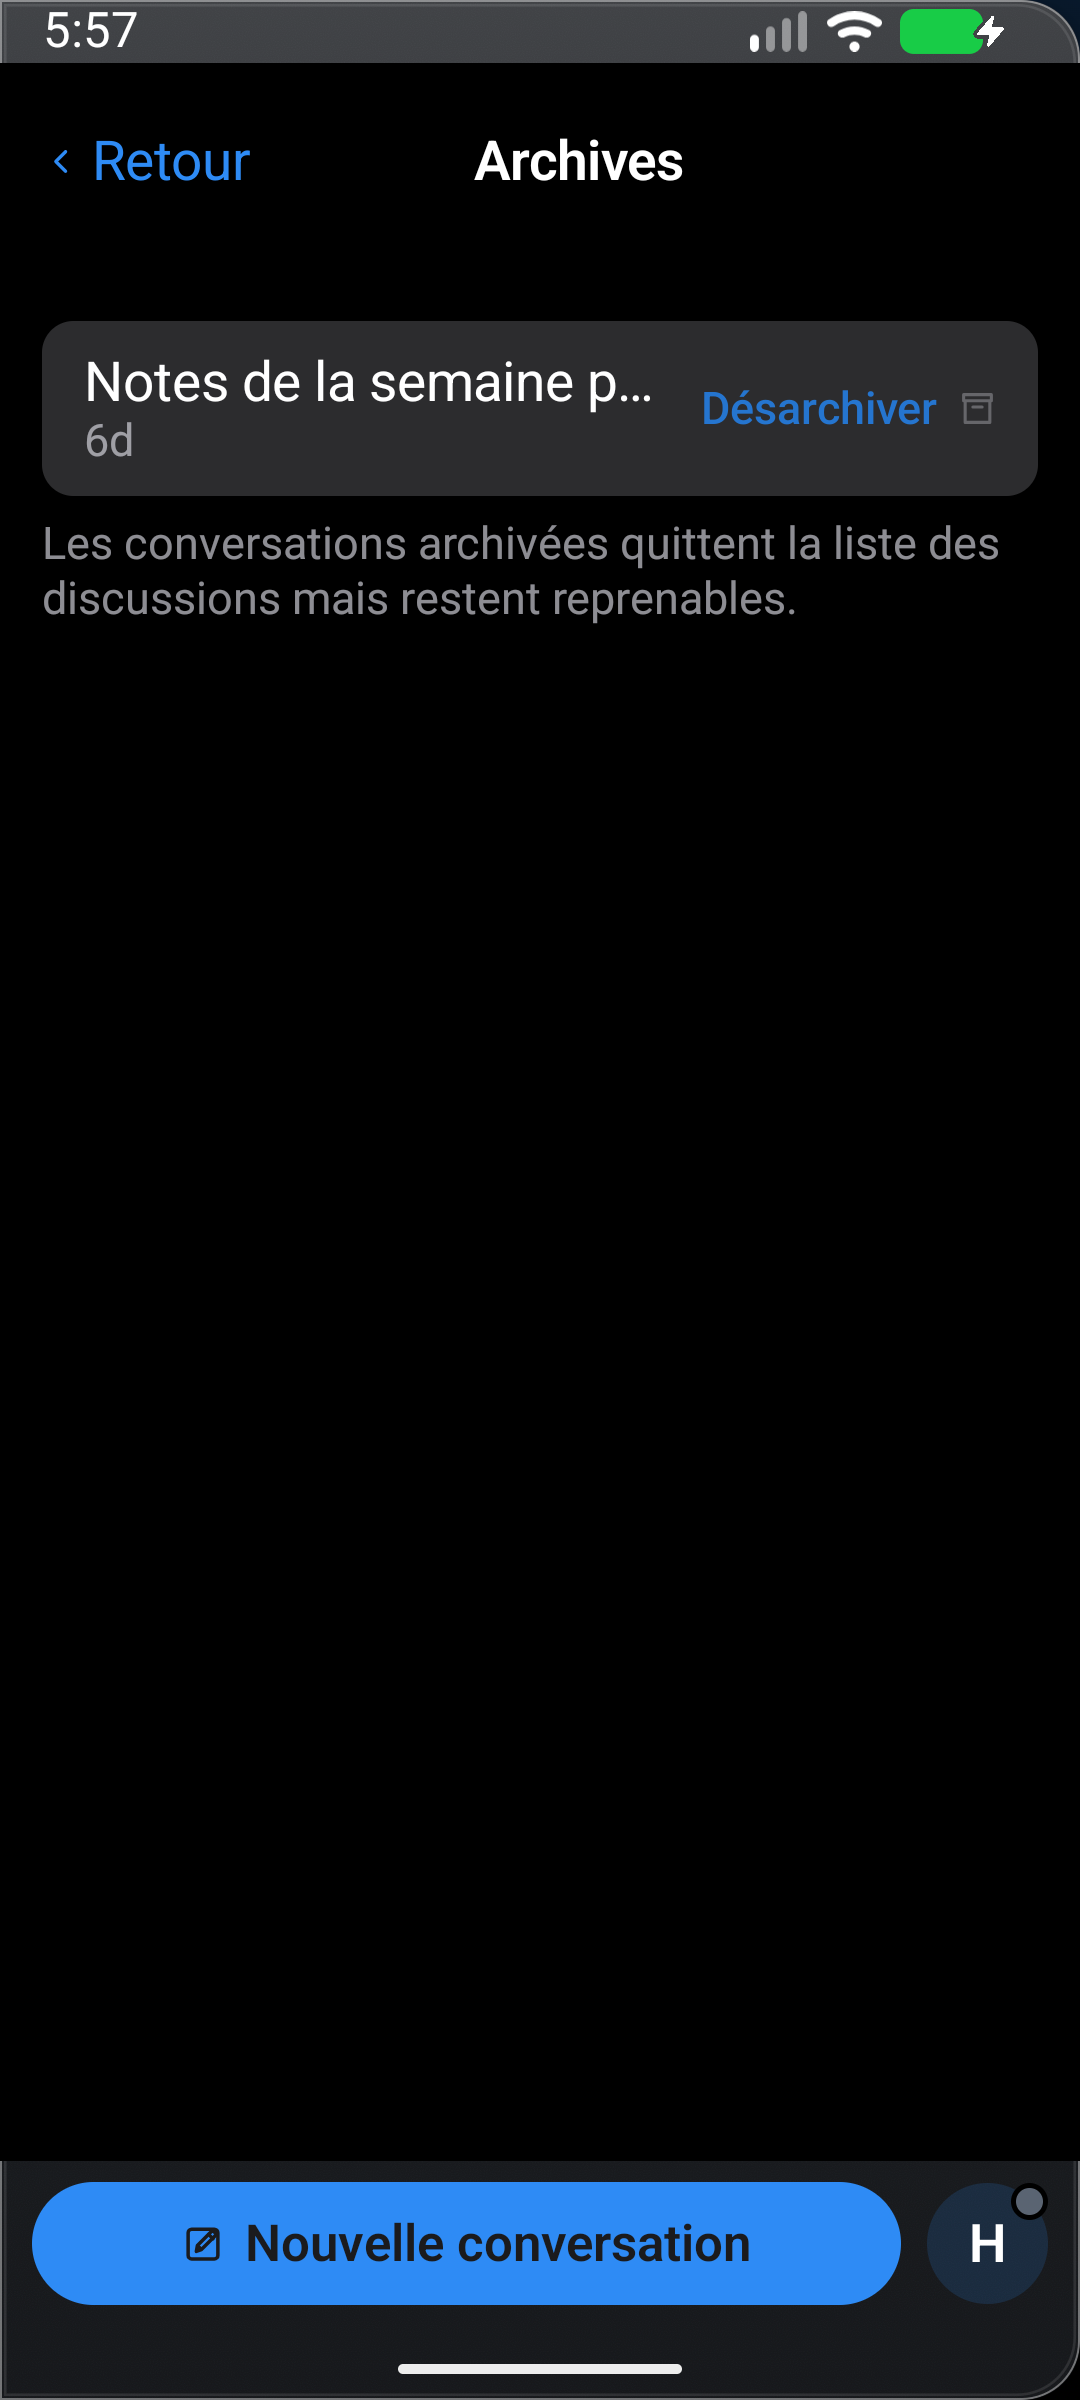
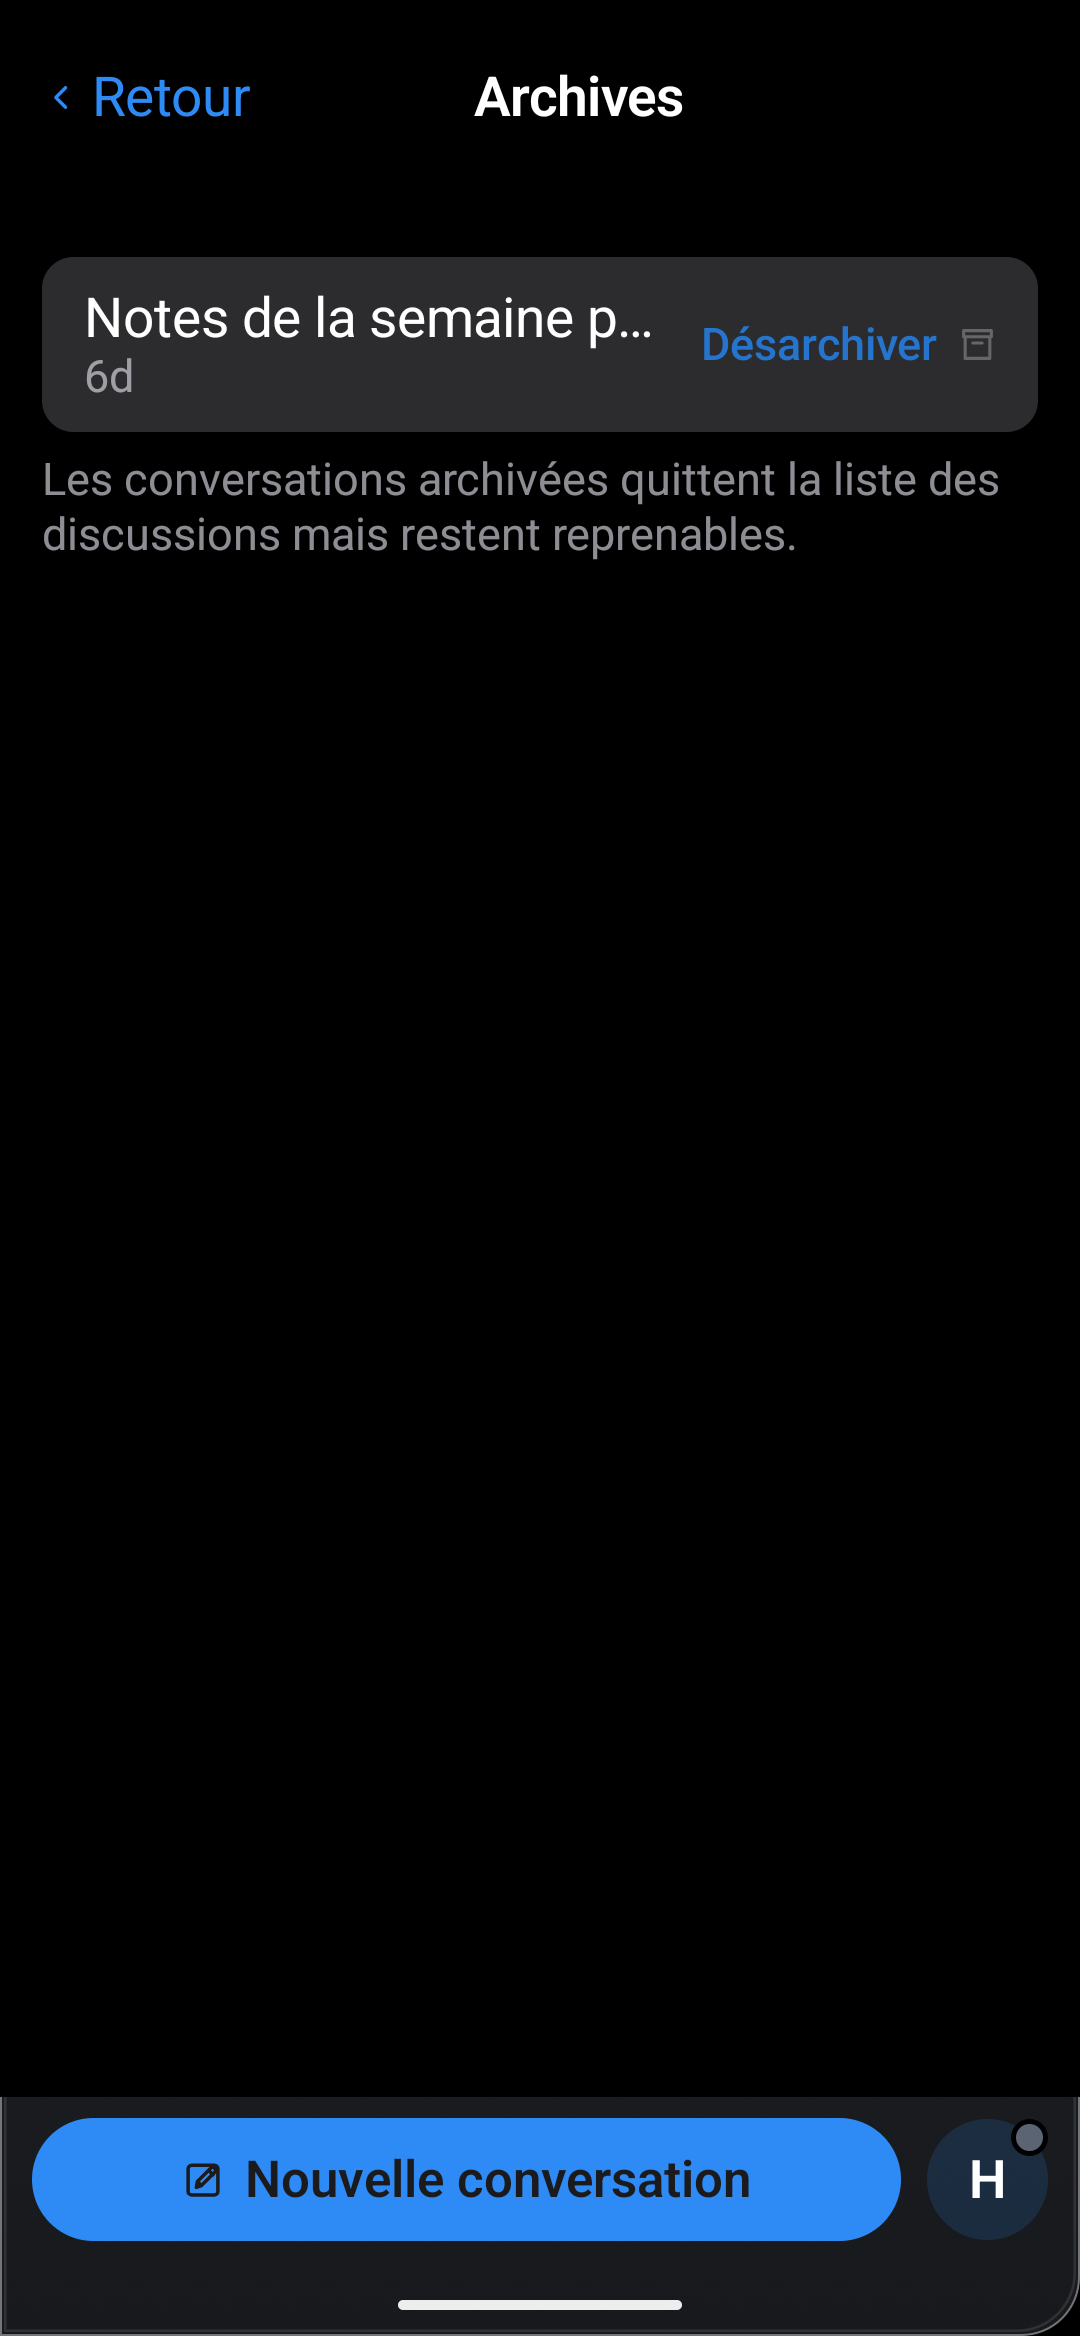
README: gallery refreshed to 1.0.0+547 (status bar cropped, addresses blurred), 2460 tests, install 1.0.0+547 phone with the 1.0.0+546 companions

Changed region(s): [[0.0, 0.0, 1.0, 0.2812], [0.1528, 0.9062, 0.7028, 0.9688], [0.8861, 0.9062, 0.9778, 0.9375]]

diff --git a/README.md b/README.md
@@ -7,15 +7,15 @@ Bots with faces, rooms where they answer each other, hands-free voice — and yo
 
 [![Kotlin](https://img.shields.io/badge/Kotlin-2.1.20-7F52FF?logo=kotlin&logoColor=white)](https://kotlinlang.org)
 [![Android](https://img.shields.io/badge/Android-8.0%2B%20(API%2026)-3DDC84?logo=android&logoColor=white)](#requirements)
-[![Tests](https://img.shields.io/badge/tests-2459%20passing-brightgreen)](#tests)
+[![Tests](https://img.shields.io/badge/tests-2460%20passing-brightgreen)](#tests)
 [![Build](https://github.com/JemaOS/hermes-onyx/actions/workflows/build.yml/badge.svg)](https://github.com/JemaOS/hermes-onyx/actions/workflows/build.yml)
 [![Release](https://img.shields.io/github/v/release/JemaOS/hermes-onyx?sort=semver&color=blue)](https://github.com/JemaOS/hermes-onyx/releases/latest)
 [![License](https://img.shields.io/badge/license-MIT-blue)](LICENSE)
 
 <p>
-  <img src="docs/screenshots/conversations.png" width="19%" alt="The panel: search, the tile grid, the projects and the conversations" />
+  <img src="docs/screenshots/conversation-chat.png" width="19%" alt="The Chat tab of a conversation" />
   <img src="docs/screenshots/conversation-feed.png" width="19%" alt="The Feed tab of a conversation" />
-  <img src="docs/screenshots/voice-hands-free.png" width="19%" alt="Hands-free voice, listening" />
+  <img src="docs/screenshots/voice-listening.png" width="19%" alt="Hands-free voice, listening" />
   <img src="docs/screenshots/code-sessions.png" width="19%" alt="Code sessions, with branch and status" />
   <img src="docs/screenshots/conversation-goals.png" width="19%" alt="Goals, kept on the phone" />
 </p>
@@ -154,7 +154,39 @@ a server that keeps them switched off; **Background processes** come from `proce
 too. **Usage & cost** reads `session.usage`, which carries **no price field**: the panel shows `—` and
 the sentence the server gave it, never a made-up figure.
 
-## What 1.0.0+546 brings
+## What 1.0.0+547 brings
+
+A design-QA pass over `1.0.0+546`: **eleven major defects**, every one of them visible on
+screen, measured and corrected.
+
+- **The top bar measured its title in English and drew it in French.** A French title was
+  truncated against an English measurement, so the bar read « Nouvelle convers… » at 1,3×.
+  The title is now translated *before* it is measured (`resolvedTitle`).
+- **The Feed printed the thumbs sentence twice.** The note asking you to rate a card
+  appeared twice in the same feed; the duplicate footer item is gone.
+- **The Feed card ink was under the reading floor** — card preview text at **3,29:1**, now
+  **4,82:1**. The same ink covers the card's `Source:` line, a finished goal's title and
+  progress line, and the composer note in Ideas / Goals.
+- **The voice screen's instruction was nearly invisible** — « Allez-y. » at **1,74:1**, now
+  **21,0:1**. It takes the body ink the transcript already uses, so the hand-off from
+  instruction to speech no longer changes colour.
+- **The Computer screen had no header and no way back**, its content glued to the status
+  bar; it carries both now.
+- **The Files filter chips sat in a stair-step** (40 dp beside 48 dp in one row); one
+  **44 dp** chip height now. The sort row, which showed an icon and no label, shows its
+  word as well.
+- **The Settings section headers were left in English** (`PHONE` / `ACCOUNT`) — they now
+  read **Téléphone** / **Compte**.
+- **The Terminal said « … sur the server »** — it now says **le serveur**.
+
+The same pass fixed two more: the home card's title no longer cuts a word in half, and the
+« Ajouter à… » row in Ideas / Goals is a full 44 dp tall and tappable. Green across
+**2460 unit tests, 0 failures**.
+
+**The phone only.** Android Auto and the Wear OS companion are unchanged and stay on the
+**1.0.0+546** release.
+
+## What 1.0.0+546 brought
 
 - **The panel grid now matches the reference.** Six reference destinations in a locked order
   (`referenceTiles`, `referenceOrder`) — Scheduled, Overviews, Capabilities, Plugins, Configuration and
@@ -189,46 +221,66 @@ emulator (it renders in software), so it still has to be checked on a real devic
 
 ## Screenshots
 
-| Chat | Feed | Files | Ideas | Code sessions |
+The gallery is the **1.0.0+547** build — the **dark theme** for the whole set, then the **light theme**
+on the same screens. Every capture was taken on an emulator, against a test server holding demo data:
+no real machine, no real conversation, no token. The **status bar is cropped out** of every shot and the
+demo server's **address is blurred**.
+
+| Chat | Feed | Files | Files — filters | File viewer |
 |:---:|:---:|:---:|:---:|:---:|
-| <img src="docs/screenshots/conversation-chat.png" width="100%"> | <img src="docs/screenshots/conversation-feed.png" width="100%"> | <img src="docs/screenshots/conversation-files.png" width="100%"> | <img src="docs/screenshots/conversation-ideas.png" width="100%"> | <img src="docs/screenshots/code-sessions.png" width="100%"> |
+| <img src="docs/screenshots/conversation-chat.png" width="100%"> | <img src="docs/screenshots/conversation-feed.png" width="100%"> | <img src="docs/screenshots/conversation-files.png" width="100%"> | <img src="docs/screenshots/conversation-files-filters.png" width="100%"> | <img src="docs/screenshots/file-viewer.png" width="100%"> |
 
-| The panel, docked beside the thread | The Archive screen | Capabilities — Skills and MCP |
+| Ideas | Goals | Code sessions | Kanban | Models |
+|:---:|:---:|:---:|:---:|:---:|
+| <img src="docs/screenshots/conversation-ideas.png" width="100%"> | <img src="docs/screenshots/conversation-goals.png" width="100%"> | <img src="docs/screenshots/code-sessions.png" width="100%"> | <img src="docs/screenshots/kanban.png" width="100%"> | <img src="docs/screenshots/models.png" width="100%"> |
+
+| Voice — listening | Voice — ready | Computer | Terminal | Conversation actions |
+|:---:|:---:|:---:|:---:|:---:|
+| <img src="docs/screenshots/voice-listening.png" width="100%"> | <img src="docs/screenshots/voice-ready.png" width="100%"> | <img src="docs/screenshots/computer.png" width="100%"> | <img src="docs/screenshots/terminal.png" width="100%"> | <img src="docs/screenshots/conversation-actions-sheet.png" width="100%"> |
+
+| Settings — gateway | Settings — voice & notifications | Settings — about |
 |:---:|:---:|:---:|
-| <img src="docs/screenshots/conversation-sidebar.png" width="100%"> | <img src="docs/screenshots/archive.png" width="100%"> | <img src="docs/screenshots/capabilities.png" width="100%"> |
+| <img src="docs/screenshots/settings-connection.png" width="100%"> | <img src="docs/screenshots/settings-voice-notifications.png" width="100%"> | <img src="docs/screenshots/settings-about.png" width="100%"> |
 
-| The panel, over the thread on a phone | Conversation actions, as a sheet |
+| Light — Chat | Light — Feed | Light — Settings |
+|:---:|:---:|:---:|
+| <img src="docs/screenshots/conversation-chat-light.png" width="100%"> | <img src="docs/screenshots/conversation-feed-light.png" width="100%"> | <img src="docs/screenshots/settings-connection-light.png" width="100%"> |
+
+| The panel, over the thread on a phone | The panel, docked beside the thread |
 |:---:|:---:|
-| <img src="docs/screenshots/conversations.png" width="100%"> | <img src="docs/screenshots/conversation-actions-sheet.png" width="100%"> |
+| <img src="docs/screenshots/conversations.png" width="100%"> | <img src="docs/screenshots/conversation-sidebar.png" width="100%"> |
 
-The bot roster in the first picture is read from the server: the app lists the profiles it exposes, so a
-profile called `QA-tester` appears under that name.
+| The Archive screen | Capabilities — Skills and MCP |
+|:---:|:---:|
+| <img src="docs/screenshots/archive.png" width="100%"> | <img src="docs/screenshots/capabilities.png" width="100%"> |
 
-Every screenshot in this README was taken on an emulator, in the **dark theme**, against a test
-server holding demo data — no real machine, no real conversation, no token. The **panel** (docked and
-over the thread), the **Archive** screen and the **Capabilities** screen are the **1.0.0+546** build;
-the **conversation actions** sheet is **1.0.0+438**, the **Files** tab is **1.0.0+437**, and the rest
-are **1.0.0+423**. The name on the panel (`homelab`) and the letter chip derived from it are the test
-double's, not a real machine.
+The **panel** (over the thread and docked), the **Archive** screen and the **Capabilities** screen are
+the **1.0.0+546** build: this pass did not re-shoot them, and nothing they show changed. Every other
+capture here is **1.0.0+547**. The bot roster and the name on the cards are read from the server — the
+app lists the profiles it exposes, it never invents one — and the name on the panel (`Onyx`, and
+`homelab` in the docked shot) with the letter chip derived from it are the test double's, not a real
+machine.
 
 ## Install
 
 The signed APKs are on the [latest release](https://github.com/JemaOS/hermes-onyx/releases/latest) page.
-Three applications, one signing key, built from one code base:
+One code base, one signing key. **This release ships the phone**: the Android Auto and Wear OS
+companions were not rebuilt for `1.0.0+547` and stay on **`1.0.0+546`**, where all three packages live.
 
 | File | Runs on | What it is |
 |---|---|---|
-| `Hermes-Onyx-1.0.0+546-telephone.apk` | Phone, Android 8.0+ | The app: a sidebar, a chat and its five tabs, bots, rooms, voice, code, computer, servers, kanban, cron, files, terminal, widget. |
-| `Hermes-Onyx-1.0.0+546-auto.apk` | Android Auto | The car: an "Ask" screen that streams the answer into a message card and reads it aloud. |
-| `Hermes-Onyx-1.0.0+546-wear.apk` | Wear OS 3+ (API 30) | The watch: a large microphone button, a live oscillogram, five states, and an "Ask Onyx" tile. |
+| `Hermes-Onyx-1.0.0+547-telephone.apk` | Phone, Android 8.0+ | The app: a sidebar, a chat and its five tabs, bots, rooms, voice, code, computer, servers, kanban, cron, files, terminal, widget. **The latest build.** |
+| `Hermes-Onyx-1.0.0+546-auto.apk` | Android Auto | The car: an "Ask" screen that streams the answer into a message card and reads it aloud. **Unchanged — take it from the 1.0.0+546 release.** |
+| `Hermes-Onyx-1.0.0+546-wear.apk` | Wear OS 3+ (API 30) | The watch: a large microphone button, a live oscillogram, five states, and an "Ask Onyx" tile. **Unchanged — take it from the 1.0.0+546 release.** |
 
-**Coming from an older build?** `1.0.0+546` is signed with the same key as every release before it, so
-it installs straight over `1.0.0+467`, `1.0.0+460` or `1.0.0` with no uninstall. In the other
-direction, `1.0.0+467` is the release that fixed the broken top bar `1.0.0+460` shipped (swallowed
+**Coming from an older build?** `1.0.0+547` is signed with the same key as every release before it, so
+it installs straight over `1.0.0+546`, `1.0.0+467`, `1.0.0+460` or `1.0.0` with no uninstall. In the
+other direction, `1.0.0+467` is the release that fixed the broken top bar `1.0.0+460` shipped (swallowed
 taps, no glass, square corners, the gateway alias where the model name belonged).
 
-The three names above are the exact asset names on the release. Each release also carries a
-`SHA256SUMS` file with the SHA-256 of the three APKs — check your download against it:
+The three names above are the exact asset names on the releases. `1.0.0+547` carries a `SHA256SUMS`
+file with the SHA-256 of the phone APK; `1.0.0+546` carries one with all three. Check your download
+against it:
 
 ```bash
 curl -LO https://github.com/JemaOS/hermes-onyx/releases/latest/download/SHA256SUMS
@@ -291,7 +343,7 @@ ever goes up and an APK installs over the previous one.
 ./gradlew :core:testDebugUnitTest :app:testDebugUnitTest
 ```
 
-**2459 tests, 0 failures** — 1173 in `:core`, 1286 in `:app`, across 343 test classes. Plain JUnit 4, no
+**2460 tests, 0 failures** — 1174 in `:core`, 1286 in `:app`. Plain JUnit 4, no
 emulator: networking runs against an in-memory MockWebServer, so the recipe works offline and takes about
 two minutes. CI runs the same command on every push.
 
